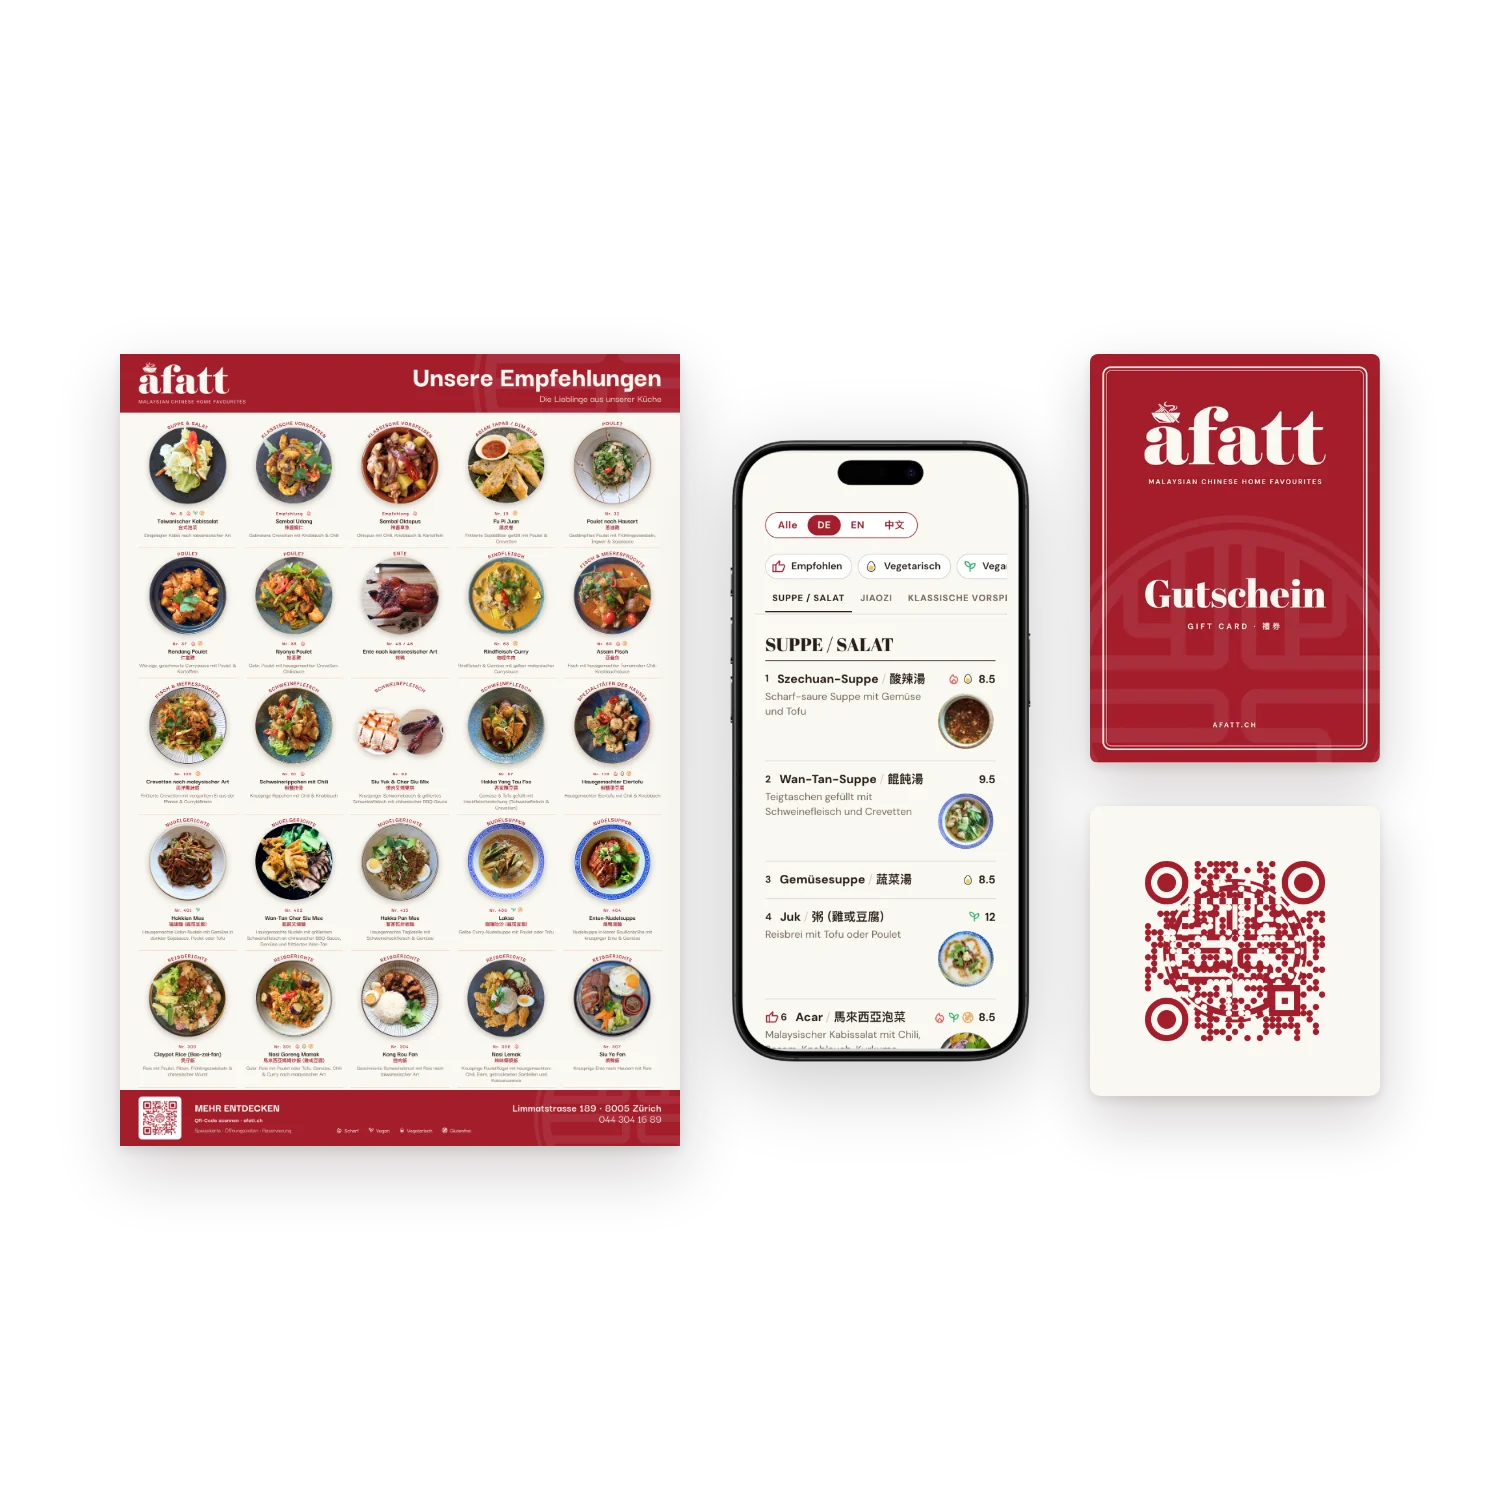
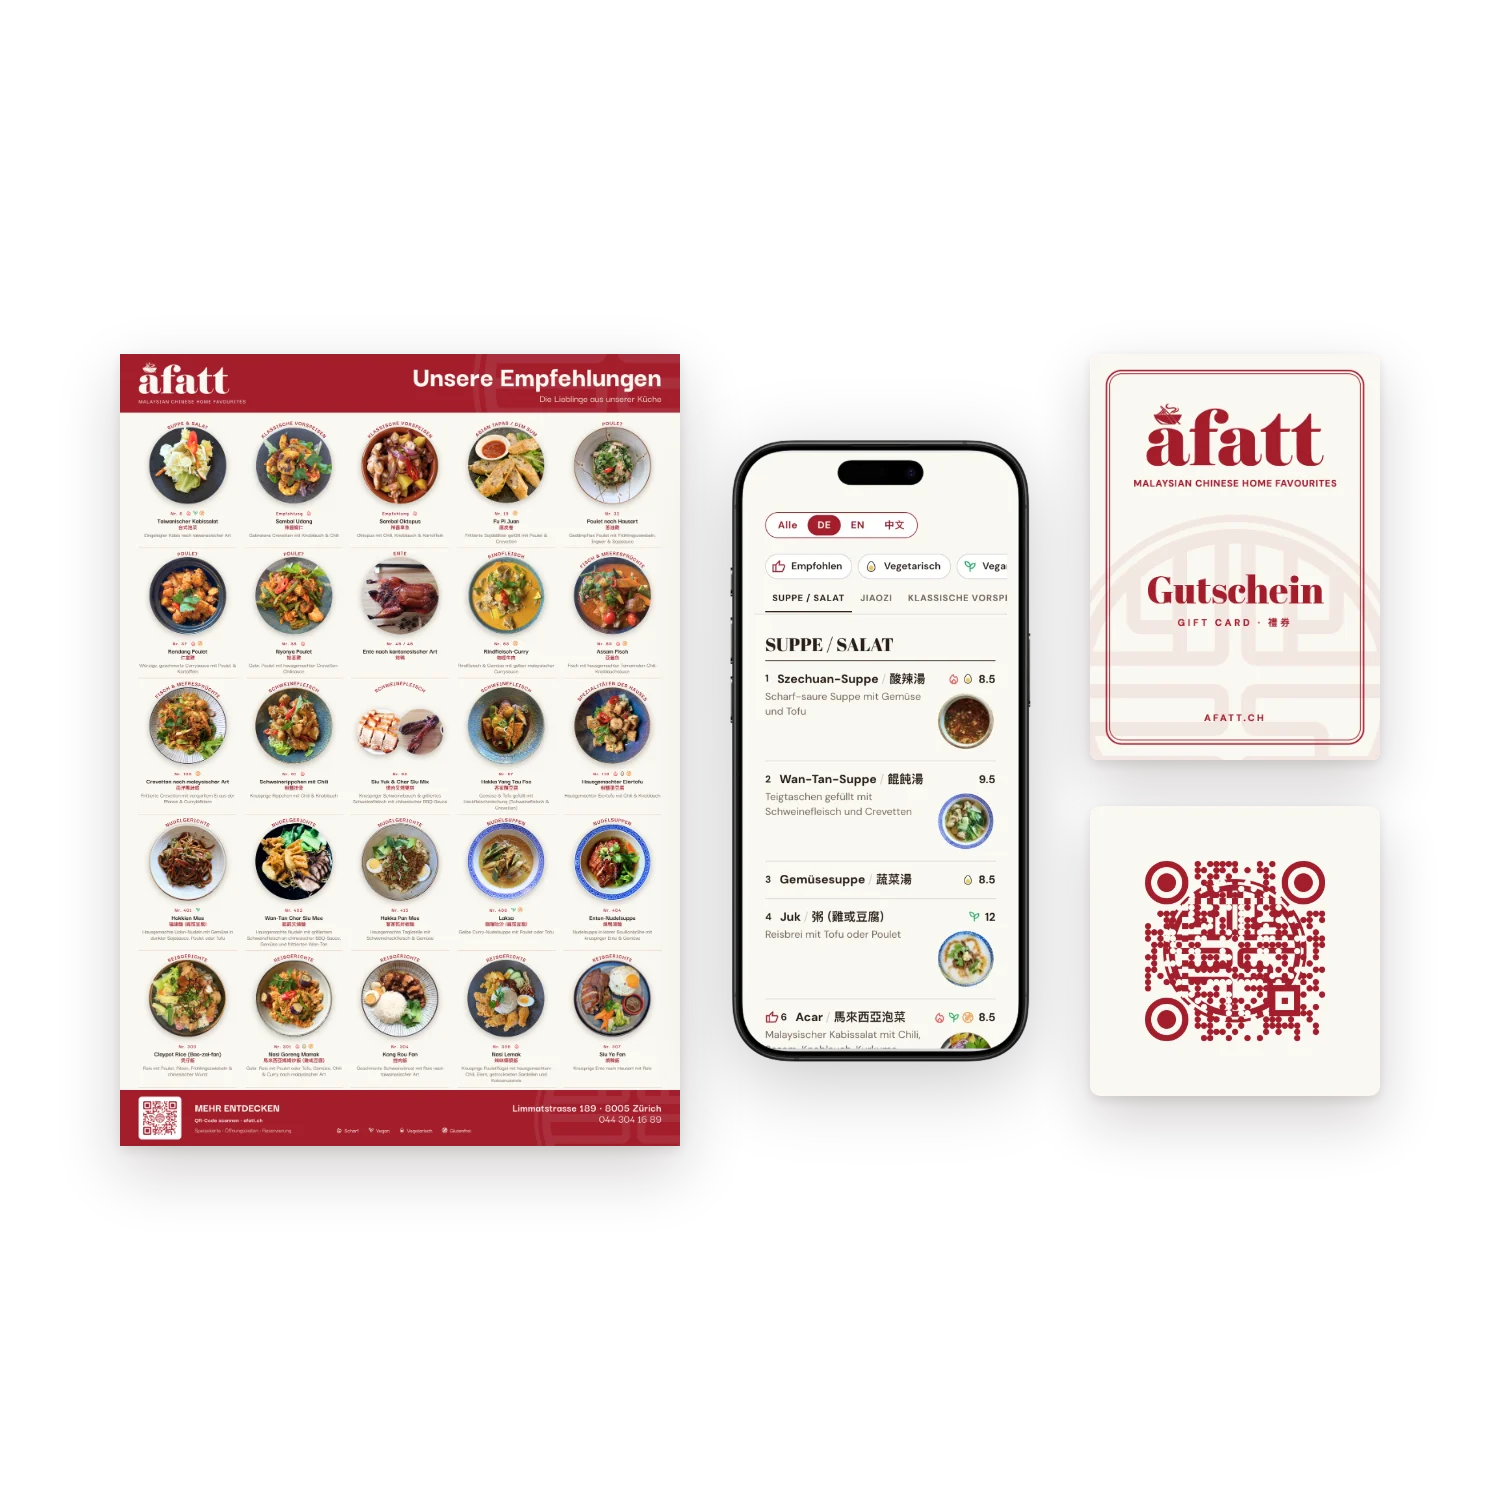
Unfeature menuGen; cream gift card in the hover
menuGen is reached from Four Questions, Four Tools, so A Fatt no longer
has three featured pages. The hover shows the cream gift card that was
printed.

Changed region(s): [[0.7053, 0.2147, 0.92, 0.5213]]

diff --git a/src/content/projects/menu-generator/index.md b/src/content/projects/menu-generator/index.md
@@ -1,7 +1,7 @@
 ---
 title: 'MenuGen'
 subtitle: 'Restaurant Menu Management Platform'
-featured: true
+featured: false
 type: 'Self-initiated'
 created: 2026-01-01
 domains:
